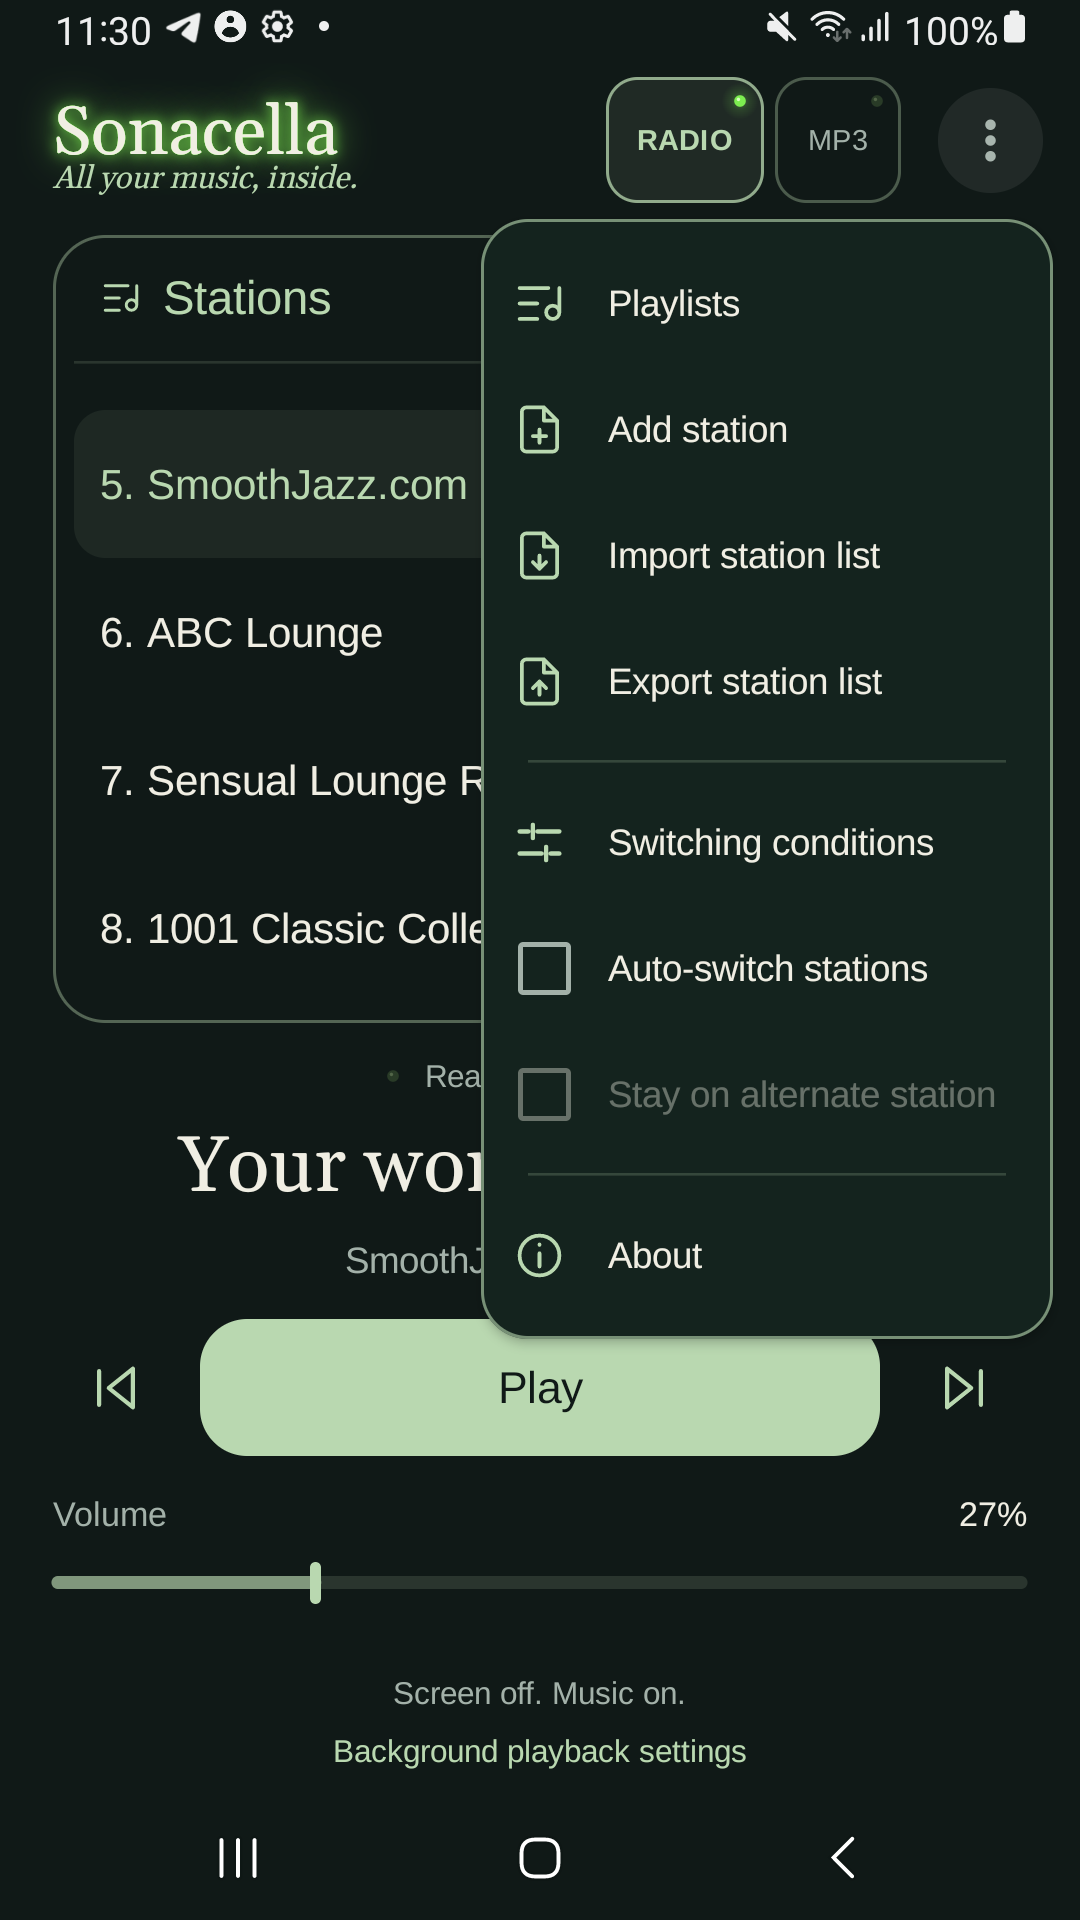
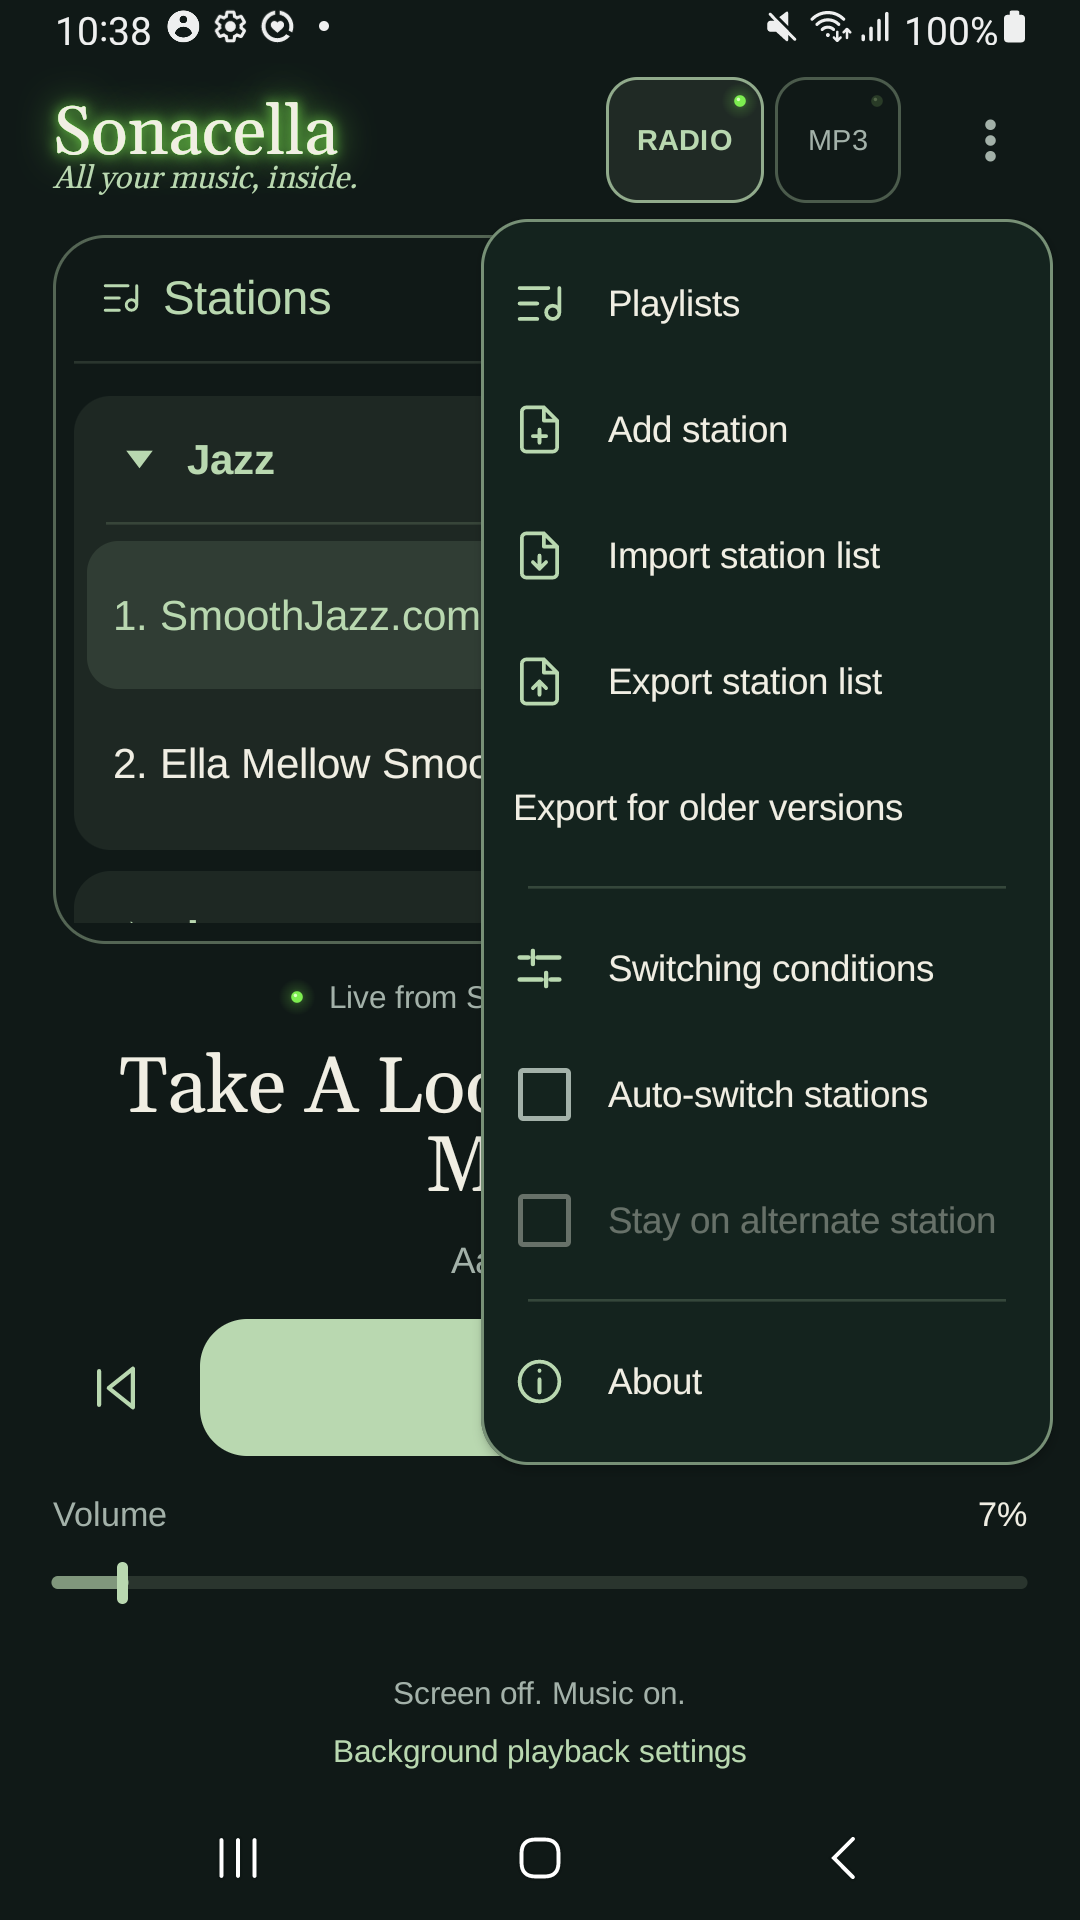
Describe station groups and refresh radio screenshot gallery

diff --git a/index.html b/index.html
@@ -3,7 +3,7 @@
 <head>
   <meta charset="utf-8">
   <meta name="viewport" content="width=device-width, initial-scale=1">
-  <meta name="description" content="Turn a spare Android phone into a player for internet radio, local MP3s, and music streamed from Google Drive.">
+  <meta name="description" content="Turn a spare Android phone into a player for internet radio with station groups, local MP3s, and music streamed from Google Drive.">
   <meta name="theme-color" content="#111a15">
   <title>Sonacella — Internet Radio &amp; MP3 Player for Android</title>
   <link rel="icon" href="assets/icon.png" type="image/png">
@@ -34,7 +34,7 @@
         <p class="eyebrow"><span></span> A free audio player for Android</p>
         <h1 id="intro">Old phone.<br><em>New player.</em></h1>
         <p class="lede">Turn a spare Android phone into an easy-to-use audio player. Tune in to internet radio at home, take your MP3s on a walk, or resume an audiobook from your Google Drive right where you left off. <a href="chapters/">Learn how to split a long MP3 into tracks.</a></p>
-        <p class="lede"><strong>Make the station list your own.</strong> Add stations by HTTPS stream or M3U playlist link, then edit their names, logos, and descriptions.</p>
+        <p class="lede"><strong>Make the station list your own.</strong> Add stations by HTTPS stream or M3U playlist link, then edit their names, logos, and descriptions. Organise stations into collapsible groups for seasons, genres, or moods. Move several stations at once while your music keeps playing.</p>
         <a class="play-button" href="https://play.google.com/store/apps/details?id=io.github.miphorez.sonacella">
           <svg aria-hidden="true" viewBox="0 0 24 24" width="23" height="23"><path fill="currentColor" d="M5 3.7v16.6a.7.7 0 0 0 1.1.6l13.3-8.3a.7.7 0 0 0 0-1.2L6.1 3.1a.7.7 0 0 0-1.1.6Z"/></svg>
           Get it on Google Play
@@ -51,20 +51,32 @@
       </div>
       <figure class="radio-figure gallery" data-gallery aria-label="Internet radio screenshots">
         <div class="gallery-slides">
-          <a class="screen is-current" href="assets/radio.png" data-caption="Station list">
-            <img src="assets/radio.png" width="1080" height="1920" alt="Sonacella playing SmoothJazz.com Global with the saved station list above the controls">
+          <a class="screen is-current" href="assets/radio.png" data-caption="Station groups">
+            <img src="assets/radio.png" width="1080" height="1920" alt="Sonacella playing a jazz station inside an expanded group, with a separate lounge group collapsed below">
+          </a>
+          <a class="screen" href="assets/radio-groups-collapsed.png" data-caption="Collapsed groups" inert>
+            <img src="assets/radio-groups-collapsed.png" width="1080" height="1920" alt="Collapsed Jazz and Lounge groups showing station counts and the playing group indicator">
+          </a>
+          <a class="screen" href="assets/radio-group-menu.png" data-caption="Group menu" inert>
+            <img src="assets/radio-group-menu.png" width="1080" height="1920" alt="The group menu with Rename group, Remove group, Move up and Move down">
+          </a>
+          <a class="screen" href="assets/radio-grouping.png" data-caption="Group stations" inert>
+            <img src="assets/radio-grouping.png" width="1080" height="1920" alt="Selecting multiple stations for grouping, with their current groups shown below their names">
+          </a>
+          <a class="screen" href="assets/radio-move-group.png" data-caption="Move stations" inert>
+            <img src="assets/radio-move-group.png" width="1080" height="1920" alt="Choosing a destination group from a left-aligned list with empty folder icons">
           </a>
           <a class="screen" href="assets/station-card.png" data-caption="Station card" inert>
             <img src="assets/station-card.png" width="1080" height="1920" alt="A station card showing information about a radio station and its playback actions">
           </a>
           <a class="screen" href="assets/station-menu.png" data-caption="Station menu" inert>
-            <img src="assets/station-menu.png" width="1080" height="1920" alt="The station menu with options to view, edit, remove, or reorder a station">
+            <img src="assets/station-menu.png" width="1080" height="1920" alt="The station menu with options to move to a group, view, edit, remove, or reorder a station">
           </a>
           <a class="screen" href="assets/station-edit.png" data-caption="Edit station" inert>
             <img src="assets/station-edit.png" width="1080" height="1920" alt="The station editor showing the title, logo URL, description, and website fields">
           </a>
           <a class="screen" href="assets/app-menu.png" data-caption="Radio menu" inert>
-            <img src="assets/app-menu.png" width="1080" height="1920" alt="The radio menu with Add station and station list import and export">
+            <img src="assets/app-menu.png" width="1080" height="1920" alt="The radio menu with station creation, catalog import, grouped export and export for older versions">
           </a>
           <a class="screen" href="assets/station-add.png" data-caption="Add a station" inert>
             <img src="assets/station-add.png" width="1080" height="1920" alt="The Add station form with a title, stream URL, and a choice of HTTPS stream or M3U playlist">
@@ -74,7 +86,7 @@
           <button type="button" data-step="-1" aria-label="Previous radio screenshot" hidden>
             <svg aria-hidden="true" viewBox="0 0 24 24" width="20" height="20"><use href="#track-skip"/></svg>
           </button>
-          <span class="gallery-caption" data-caption-live aria-live="polite">Station list</span>
+          <span class="gallery-caption" data-caption-live aria-live="polite">Station groups</span>
           <button type="button" data-step="1" aria-label="Next radio screenshot" hidden>
             <svg aria-hidden="true" viewBox="0 0 24 24" width="20" height="20"><use href="#track-skip"/></svg>
           </button>
